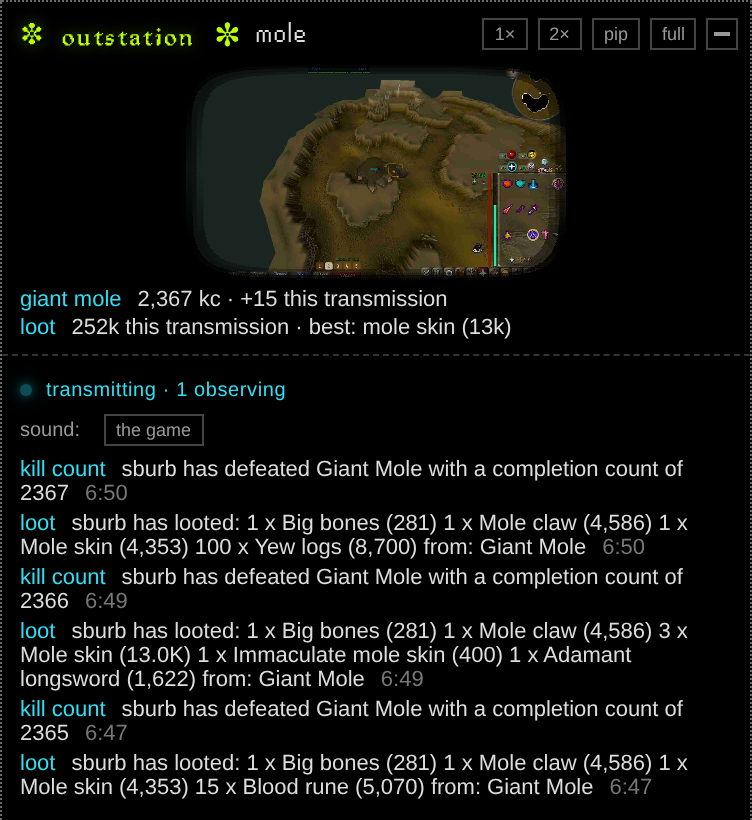
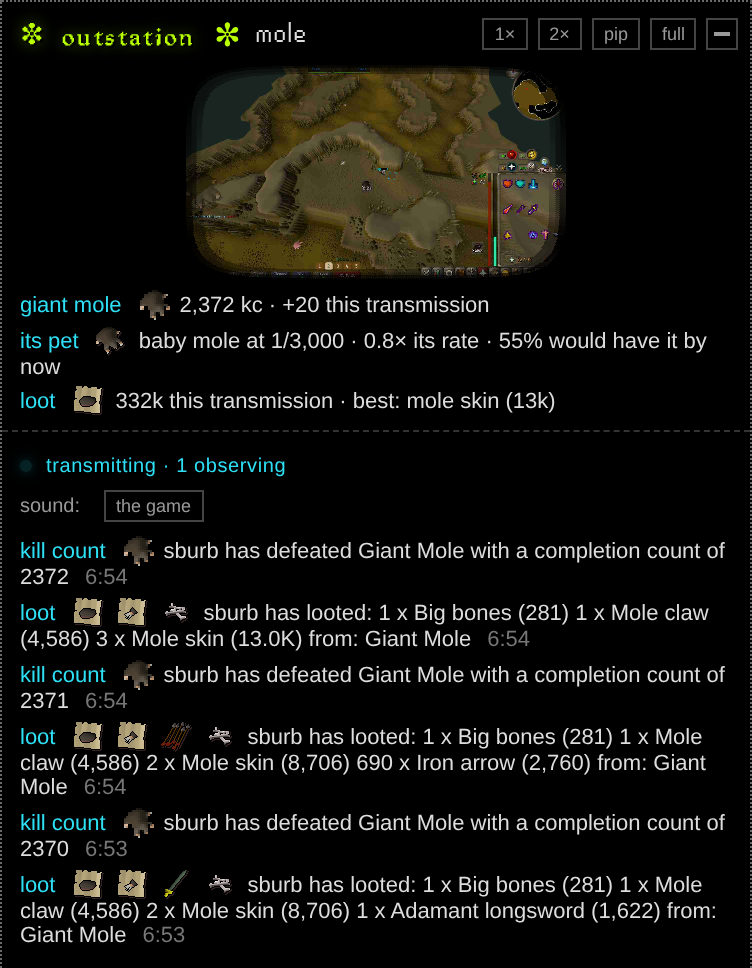
The README's stream picture again, whole: the boss's and the items' pictures, and the pet's dryness (the first was taken with their hosts blocked in the cloud session)
Claude-Session: https://claude.ai/code/session_015m6iukjiV4VB1cy29FBpGF

Changed region(s): [[0.0, 0.0, 1.0, 0.9756], [0.8564, 0.4268, 0.9176, 0.4573], [0.9787, 0.4268, 1.0, 0.4573]]

diff --git a/README.md b/README.md
@@ -22,10 +22,10 @@ An outstation on your PC, transmitting your RuneLite to your Outside page on [gh
 The first screen; attached and dark, ready to transmit; transmitting to two observers; and what they see on the player's Outside page. (Pictured under Wine, with a screenshot of sburb's RuneLite standing in for the game.)
 
 <p>
-  <img src="docs/pictures/stream.png" width="60%" alt="sburb's real transmission on Outside: the picture, this transmission's Giant Mole kill count (2,367, +15 this transmission) and loot (252k, best a mole skin), and each kill count and loot as it came">
+  <img src="docs/pictures/stream.png" width="60%" alt="sburb's real transmission on Outside: the picture, the Giant Mole's kill count (2,372, +20 this transmission), how dry its pet is (baby mole at 1/3,000, 0.8x its rate), this transmission's loot (332k, best a mole skin), and each kill count and loot as it came, with their pictures">
 </p>
 
-A real transmission, as observers see it on Outside (sburb at the Giant Mole, 11/07/2026): the picture, what this transmission has done so far (its kill count and how many this transmission, its loot and the best drop), and each kill count and loot as Dink tells of it.
+A real transmission, as observers see it on Outside (sburb at the Giant Mole, 11/07/2026): the picture; the boss with its kill count and how many this transmission; how dry its pet is, from the player's own collection log (RuneProfile and Wise Old Man); this transmission's loot and the best drop; and each kill count and loot as Dink tells of it, with the boss's and the items' pictures.
 
 **Its words.** The window speaks ⊂λ,ｍ⊙'s language. Your **station key** is the code that attaches it to your channel; **transmitting** is live and **dark** is off air; **observers** are your viewers, and **on standby** the ones waiting for a seat; **the tape** is the replay buffer (the last seconds, always rolling); **redactions** are masks; **the monitor** is the small live view of what went out; **field reports** are Dink's posts; **the station check** is the ready check. The keeper **issues** keys, **denies** a request, **re-keys** a channel (a new key; the old one stops working) and **stands one down** (takes it back).
 
